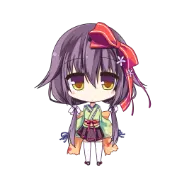
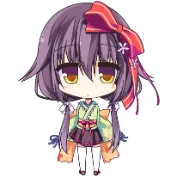
feat: isShowKohaku

diff --git a/components/kun/top-bar/Hamburger.vue b/components/kun/top-bar/Hamburger.vue
@@ -6,6 +6,7 @@ import type { Hamburger } from './hamburgerItem'
 const localePath = useLocalePath()
 
 const { showKUNGalgameHamburger } = storeToRefs(useTempSettingStore())
+const { showKUNGalgameBackLoli } = storeToRefs(usePersistSettingsStore())
 
 const startX = ref(0)
 const startY = ref(0)
@@ -120,14 +121,32 @@ const handleShowMore = () => {
 
           <KunSettingPanelComponentsReset v-if="isShowSettings" />
 
-          <span class="more" :class="isShowSettings ? 'active' : ''">
-            <Icon @click="handleShowMore" name="lucide:chevron-down" />
+          <div class="loli" v-if="isShowSettings">
+            <span>{{ $t('header.hamburger.loli') }}</span>
+            <KunSwitch v-model="showKUNGalgameBackLoli" />
+          </div>
+
+          <span class="more" @click="handleShowMore">
+            <span>{{ $t('header.hamburger.settings') }}</span>
+            <span :class="isShowSettings ? 'active' : ''">
+              <Icon name="lucide:chevron-down" />
+            </span>
           </span>
         </div>
 
         <div class="links">
+          <a
+            aria-label="KUN Visual Novel Open Source GitHub Repository | 鲲 Galgame 论坛开源 GitHub 仓库"
+            href="https://github.com/KUN1007/kun-galgame-nuxt3"
+            target="_blank"
+          >
+            <span><Icon name="lucide:github" /></span>
+            <span>GitHub</span>
+          </a>
+
           <NuxtLinkLocale to="/rss">
-            <Icon name="lucide:rss" />
+            <span><Icon name="lucide:rss" /></span>
+            <span>RSS</span>
           </NuxtLinkLocale>
 
           <a
@@ -135,15 +154,8 @@ const handleShowMore = () => {
             href="https://t.me/kungalgame"
             target="_blank"
           >
-            <Icon name="ph:telegram-logo" />
-          </a>
-
-          <a
-            aria-label="KUN Visual Novel Open Source GitHub Repository | 鲲 Galgame 论坛开源 GitHub 仓库"
-            href="https://github.com/KUN1007/kun-galgame-nuxt3"
-            target="_blank"
-          >
-            <Icon name="lucide:github" />
+            <span><Icon name="ph:telegram-logo" /></span>
+            <span>Telegram</span>
           </a>
         </div>
       </div>
@@ -223,10 +235,28 @@ const handleShowMore = () => {
   }
 }
 
+.loli {
+  display: flex;
+  align-items: center;
+  justify-content: space-between;
+  margin: 20px 0;
+}
+
 .more {
   display: flex;
   justify-content: center;
+  align-items: center;
   margin: 10px 0;
+
+  span {
+    display: flex;
+
+    &:first-child {
+      font-size: small;
+      margin-right: 7px;
+      color: var(--kungalgame-font-color-1);
+    }
+  }
 }
 
 .links {
@@ -245,8 +275,13 @@ const handleShowMore = () => {
   }
 
   span {
-    margin-bottom: 20px;
-    cursor: pointer;
+    &:first-child {
+      cursor: pointer;
+    }
+
+    &:last-child {
+      font-size: x-small;
+    }
   }
 }
 

diff --git a/components/kun/setting-panel/SettingPanel.vue b/components/kun/setting-panel/SettingPanel.vue
@@ -1,4 +1,5 @@
 <script setup lang="ts">
+const { showKUNGalgameBackLoli } = storeToRefs(usePersistSettingsStore())
 const localePath = useLocalePath()
 
 const showItemIndex = ref(1)
@@ -50,6 +51,18 @@ const handelCloseSettingsPanel = () => {
             @click="showItemIndex = 3"
           >
             <Icon name="ci:font" />
+          </span>
+
+          <span
+            v-tooltip="{
+              message: {
+                en: 'Whether to display Kohaku',
+                zh: '是否显示琥珀'
+              },
+              position: 'bottom'
+            }"
+          >
+            <KunSwitch v-model="showKUNGalgameBackLoli" />
           </span>
         </div>
 
@@ -135,6 +148,7 @@ const handelCloseSettingsPanel = () => {
 
   .menu {
     display: flex;
+    align-items: center;
     margin-bottom: 17px;
 
     span {

diff --git a/components/kun/Layout.vue b/components/kun/Layout.vue
@@ -1,5 +1,7 @@
 <script setup lang="ts">
-const { showKUNGalgameBackground } = storeToRefs(usePersistSettingsStore())
+const { showKUNGalgameBackground, showKUNGalgameBackLoli } = storeToRefs(
+  usePersistSettingsStore()
+)
 
 const imageURL = ref('')
 
@@ -21,7 +23,12 @@ watch(
       <KunTopBar />
     </div>
     <slot />
-    <NuxtImg class="kohaku" src="/image/kohaku.webp" loading="lazy" />
+    <NuxtImg
+      v-if="showKUNGalgameBackLoli"
+      class="kohaku"
+      src="/image/kohaku.webp"
+      loading="lazy"
+    />
   </div>
 </template>
 

diff --git a/store/modules/settings.ts b/store/modules/settings.ts
@@ -11,7 +11,8 @@ export const usePersistSettingsStore = defineStore({
     showKUNGalgamePageTransparency: 77,
     showKUNGalgameFontStyle: SETTINGS_DEFAULT_FONT_FAMILY,
     showKUNGalgameBackground: 0,
-    showKUNGalgameBackgroundBlur: 0
+    showKUNGalgameBackgroundBlur: 0,
+    showKUNGalgameBackLoli: true
   }),
   actions: {
     // Set the font style, allowing users to set their own

diff --git a/store/types/settings.d.ts b/store/types/settings.d.ts
@@ -15,6 +15,7 @@ export interface KUNGalgameSettingsStore {
   showKUNGalgameFontStyle: string
   showKUNGalgameBackground: number
   showKUNGalgameBackgroundBlur: number
+  showKUNGalgameBackLoli: boolean
 }
 
 export interface TempSettingStore {

diff --git a/pages/edit/topic/index.vue b/pages/edit/topic/index.vue
@@ -75,4 +75,10 @@ onBeforeRouteLeave(async (_, __, next) => {
 .kun-footer {
   margin: 17px 0;
 }
+
+@media (max-width: 700px) {
+  .root {
+    height: calc(100vh - 63px);
+  }
+}
 </style>

diff --git a/pages/pool/index.vue b/pages/pool/index.vue
@@ -261,7 +261,7 @@ onUnmounted(() => {
 
 @media (max-width: 700px) {
   .pool {
-    height: calc(100dvh - 65px);
+    height: calc(100dvh - 63px);
     padding: 0 5px;
   }
 
